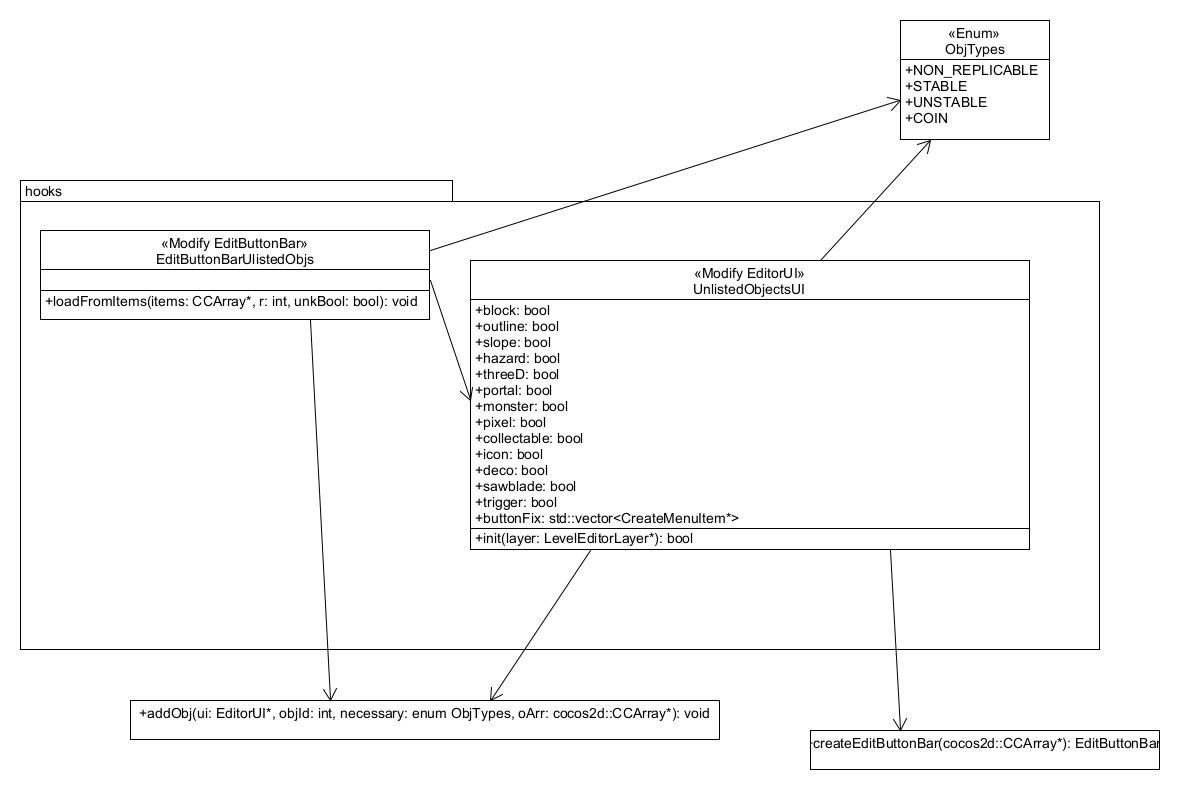
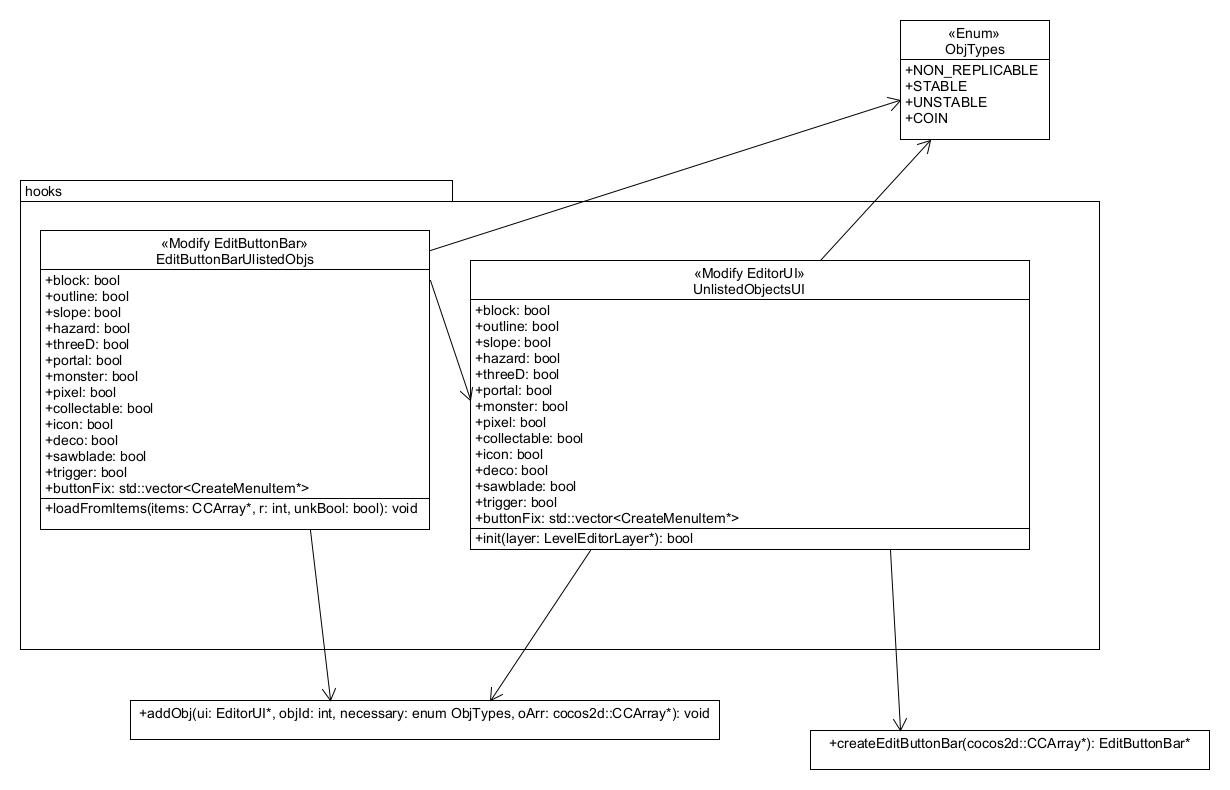
Update comments

diff --git a/src/hooks/EditButtonBarUnlistedObjs.cpp b/src/hooks/EditButtonBarUnlistedObjs.cpp
@@ -1,6 +1,7 @@
 #include "EditButtonBarUnlistedObjs.hpp"
 
-void EditButtonBarUnlistedObjs::loadFromItems(CCArray* items, int rows, int columns, bool keepPage) {
+void EditButtonBarUnlistedObjs::loadFromItems(CCArray* items, int rows, int columns, bool keepPage) {\
+	// check settings
 	std::string separateTab = Mod::get()->template getSettingValue<std::string>("separateTab");
 	bool active = Mod::get()->template getSettingValue<bool>("activate");
 
@@ -11,6 +12,7 @@ void EditButtonBarUnlistedObjs::loadFromItems(CCArray* items, int rows, int colu
 	auto ui = static_cast<EditorUI*>(this->getParent());
 	if (ui) {
 		if (this->getID() == "block-tab-bar" && !this->m_fields->m_block) {
+			// old half-slab, replaced with colorable one
 			ADD_OBJ(40, NON_REPLICABLE);
 			ADD_OBJ(369, STABLE);
 			ADD_OBJ(370, STABLE);